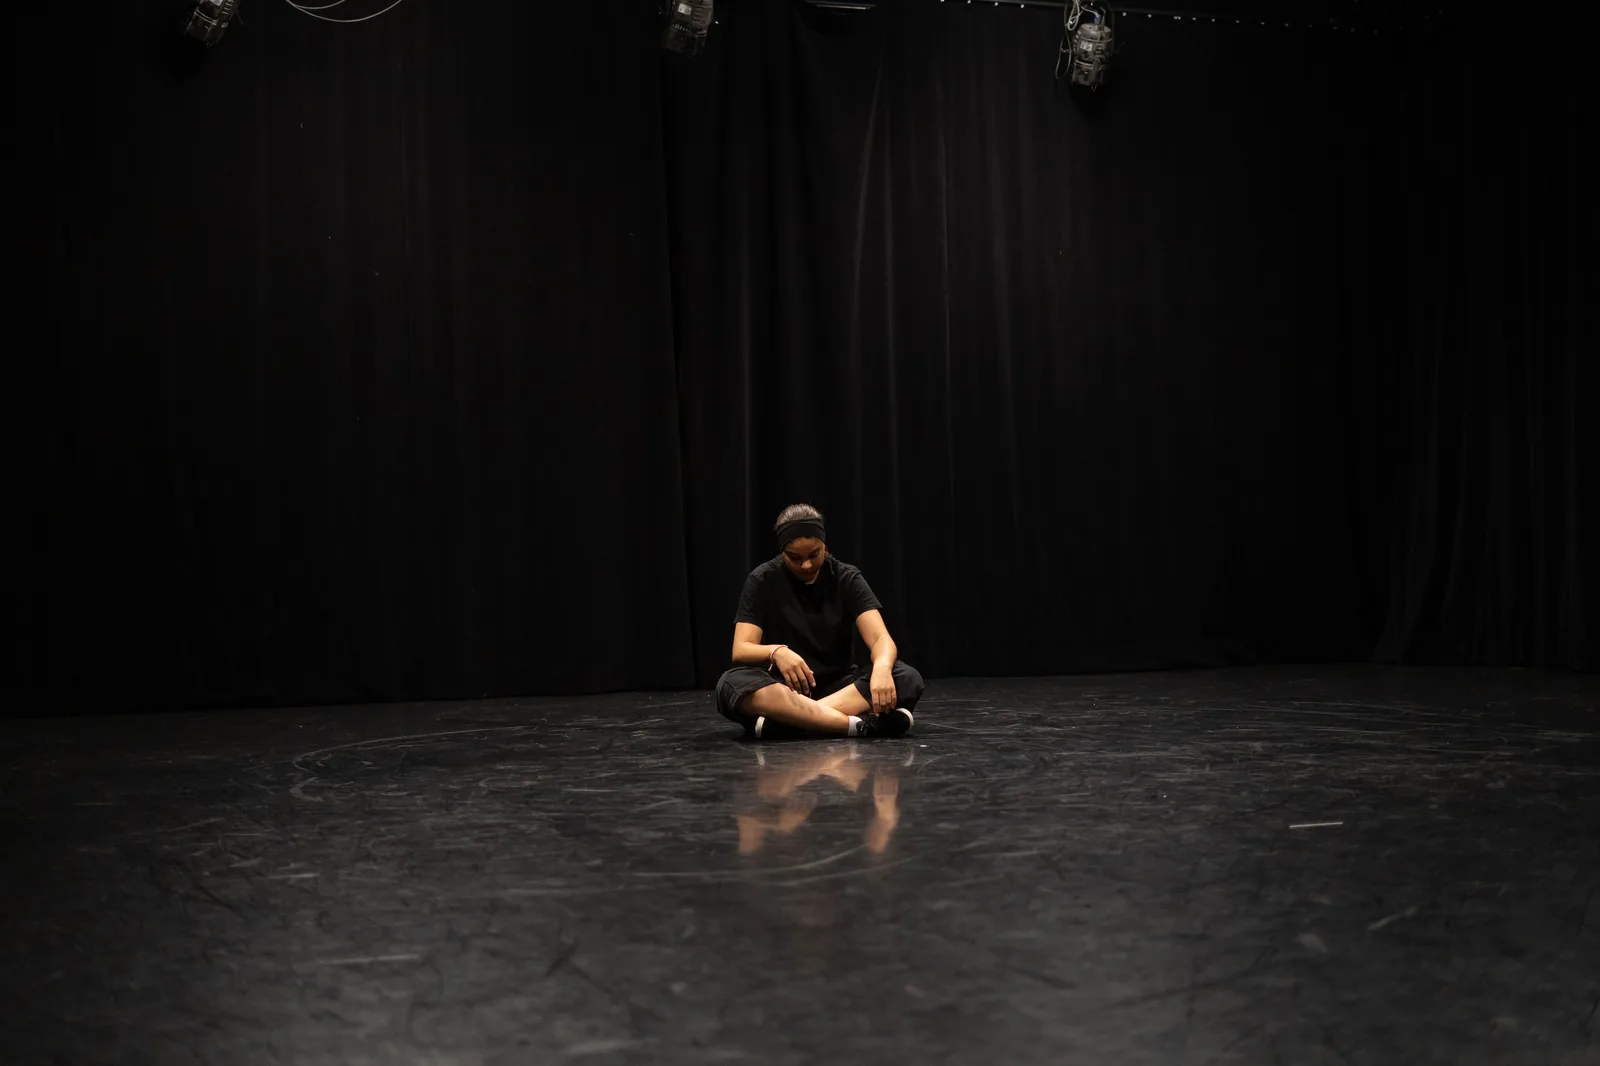
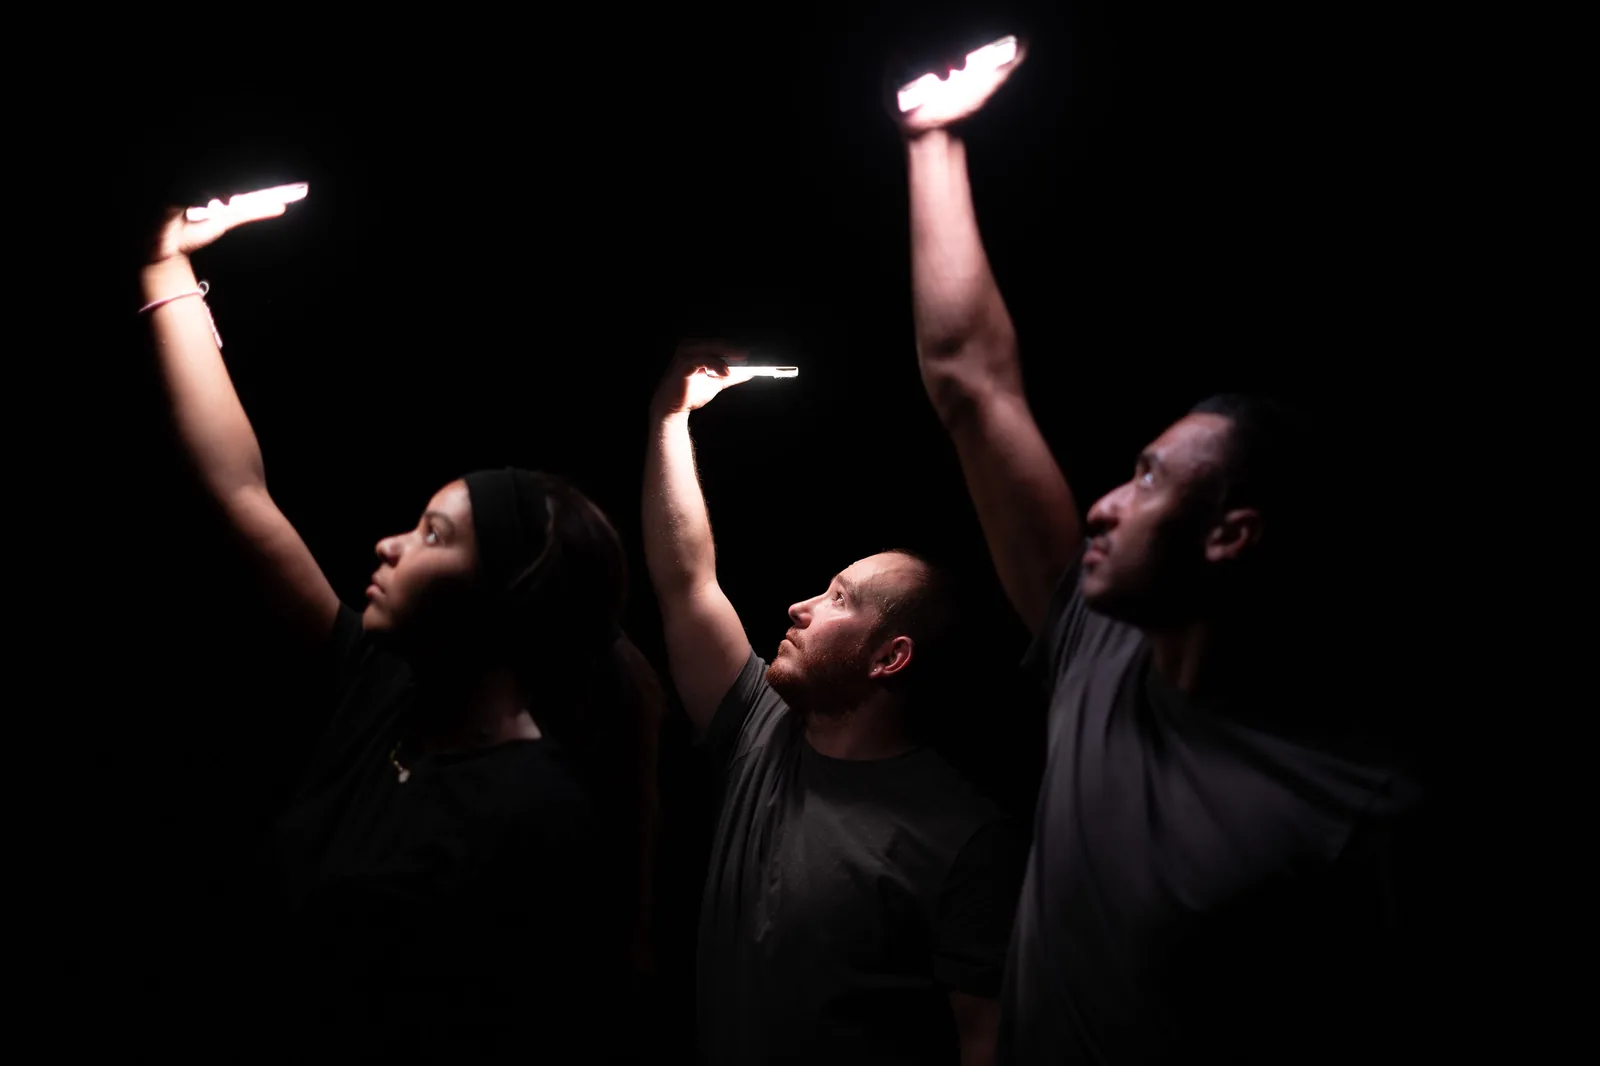
WINDOWS: hero/OG from THT-104, THT-1 moved to gallery g01
Per Raphaël: swap hero and first gallery slot only; g02/g03/tile unchanged.

diff --git a/scripts/optimize_windows_from_onedrive.py b/scripts/optimize_windows_from_onedrive.py
@@ -16,9 +16,9 @@ MAX_WIDTH = 1600
 
 # Curated picks (Jay folder) — see PR report for rationale.
 FILES = [
-    ("hero", "THT-1.jpg"),
-    ("og-windows", "THT-1.jpg"),
-    ("g01", "THT-104.jpg"),
+    ("hero", "THT-104.jpg"),
+    ("og-windows", "THT-104.jpg"),
+    ("g01", "THT-1.jpg"),
     ("g02", "THT-232.jpg"),
     ("g03", "THT-263.jpg"),
 ]
